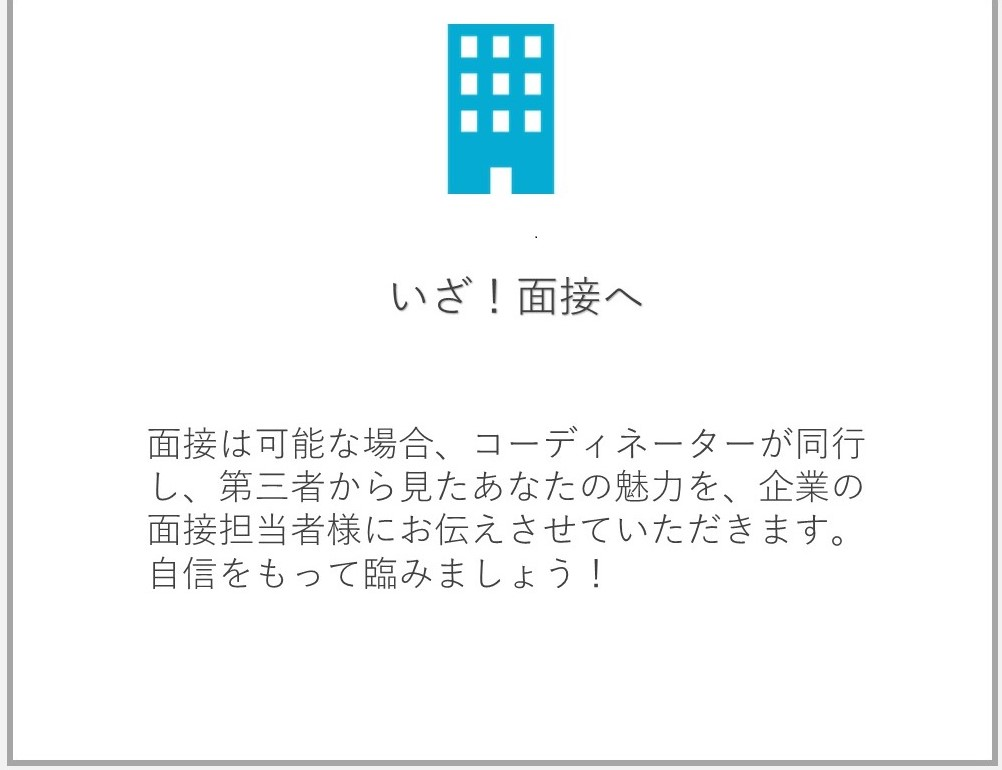
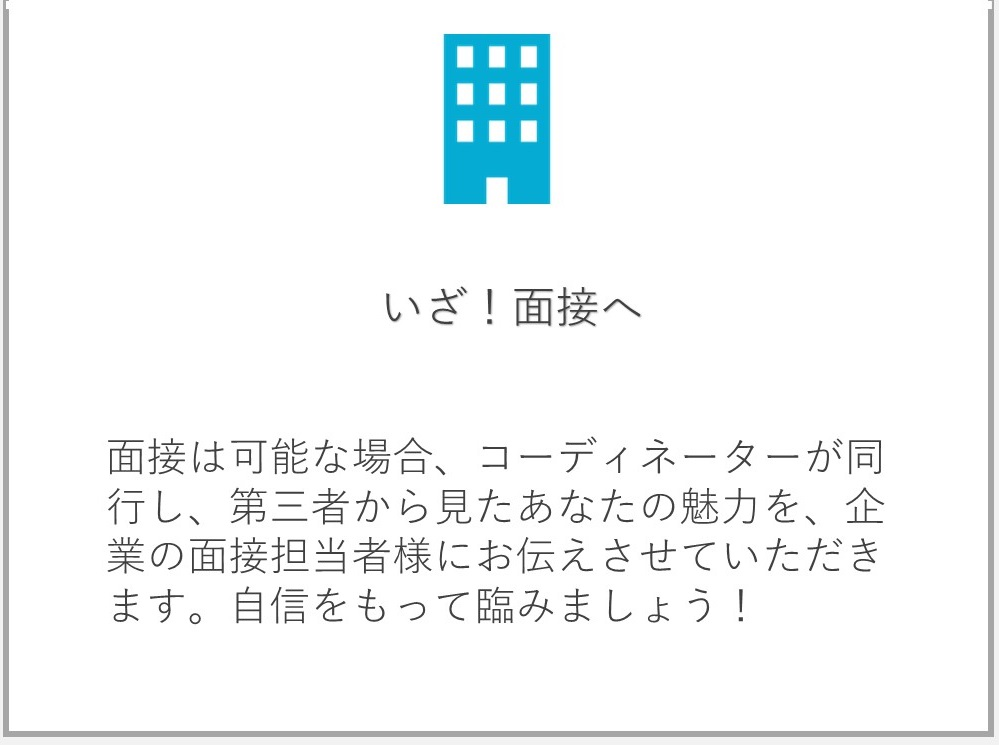
googleカレンダー埋め込み、ボタン差し替え、スマホ版文字拡大

diff --git a/consumer/index.html b/consumer/index.html
@@ -88,7 +88,7 @@
     							<li><a href="#step">就職までのステップ</a></li>
     							<li><a href="#voice">卒業生の声</a></li>
     							<li><a href="#qa">Q&A</a></li>
-    							<li><a href="#shiryou">資料請求/お問い合わせ</a></li>
+    							<li><a href="#applyform">無料体験／お問合せ</a></li>
     						</ul>
 						</div>
 					</div>
@@ -97,12 +97,12 @@
 					<li><a href="#step">就職までのステップ</a></li>
 					<li><a href="#voice">卒業生の声</a></li>
 					<li><a href="#qa">Q&A</a></li>
-					<li><a href="#shiryou">資料請求/お問い合わせ</a></li>
+					<li><a href="#applyform">無料体験／お問合せ</a></li>
 				</ul>
 				</div>
 				<img class="p_dn" src="img/firstview.png" />
 				<img class="s_dn" src="img/s_firstview.png" />
-				<a href="#shiryou"><img class="f_btn" src="img/taiken_btn.png" /></a>
+				<a href="#applyform"><img class="f_btn" src="img/taiken_btn.png" /></a>
 			</div>
 			</div>
 
@@ -158,7 +158,7 @@
 				<div class="mv bgf2">
 					<img src="img/index_img11.jpg" />
 					<div class="s_btn">
-						<a href="#shiryou"><img class="m_btn" src="img/taiken_btn.png" /></a>
+						<a href="#applyform"><img class="m_btn" src="img/taiken_btn.png" /></a>
 					</div>
 				</div>
 
@@ -199,7 +199,7 @@
 				<div class="mv bgf2">
 					<img src="img/index_img11.jpg" />
 					<div class="s_btn">
-						<a href="#shiryou"><img class="m_btn" src="img/taiken_btn.png" /></a>
+						<a href="#applyform"><img class="m_btn" src="img/taiken_btn.png" /></a>
 					</div>
 				</div>
 
@@ -277,20 +277,22 @@
 				<div class="bgf2">
 					<div class="w80">
 						<img class="s_dn" src="img/mobile_img22.JPG" />
-
 						<img class="mt6 p_dn" src="img/index_img20.JPG" />
 					</div>
 				</div>
+				<div id="applyform">
+					<div class="w90">
+						<img class="s_dn" src="img/s_apply.jpg" />
+						<img class="mt6 p_dn" src="img/apply.jpg" />
+					</div>
+				</div>		
+				<div class="cal_wrapper">
+					<div class="googlecal">
+						<iframe src="https://calendar.google.com/calendar/embed?src=li-n.net_fa6fqlq1mk067sqgcitbcpa298%40group.calendar.google.com&ctz=Asia%2FTokyo" style="border: 0" width="800" height="600" frameborder="0" scrolling="no"></iframe>
+					</div>
+				</div>
 
-
-				<div id="shiryou">
-				<script src="https://sdk.form.run/js/v2/embed.js"></script>
-  				<div
-    				class="formrun-embed"
-    				data-formrun-form="@proglabo-consumer"
-    				data-formrun-redirect="true">
-  				</div>
-  				</div>
+				
 
 			</div>
 

diff --git a/consumer/style.css b/consumer/style.css
@@ -34,6 +34,27 @@ img{
 .bge7{
 	background-color: #E7F5F9;
 }
+.cal_wrapper {
+	max-width: 960px;
+	min-width: 300px;
+	margin: 2.0833% auto;
+}
+.googlecal{
+	padding-top: 30px;
+	width: 90%;
+	margin: 0 auto;
+	position: relative;
+	padding-bottom: 100%;
+	height: 0;
+}
+.googlecal iframe {
+	position: absolute;
+	top: 0;
+	left: 0;
+	width: 100% !important;
+	height: 100% !important;
+}
+
 .logo{
 	width: 22%;
 	position: absolute;
@@ -343,8 +364,9 @@ div#footer{
 	left: 20%;
 }
 .s_btn{
-	width: 80%;
+	width: 75%;
 	left: 12%;
+	top: 26%;
 }
 .s_yaji{
 	width: 20%;
@@ -369,8 +391,8 @@ div#footer{
 .s_tuduki{
 	position: absolute;
 	font-size: 15px;
-	top: 83%;
-	left: 65%;
+	top: 80%;
+	left: 56%;
 }
 .s_tuduki a{
 	color: #ffa500;
@@ -421,5 +443,7 @@ div#footer{
     background: #eaeaea;
     opacity: 1;
 }
-
+@media only screen and (min-width: 768px) {
+.googlecal { padding-bottom: 75%; }
+}
 }
